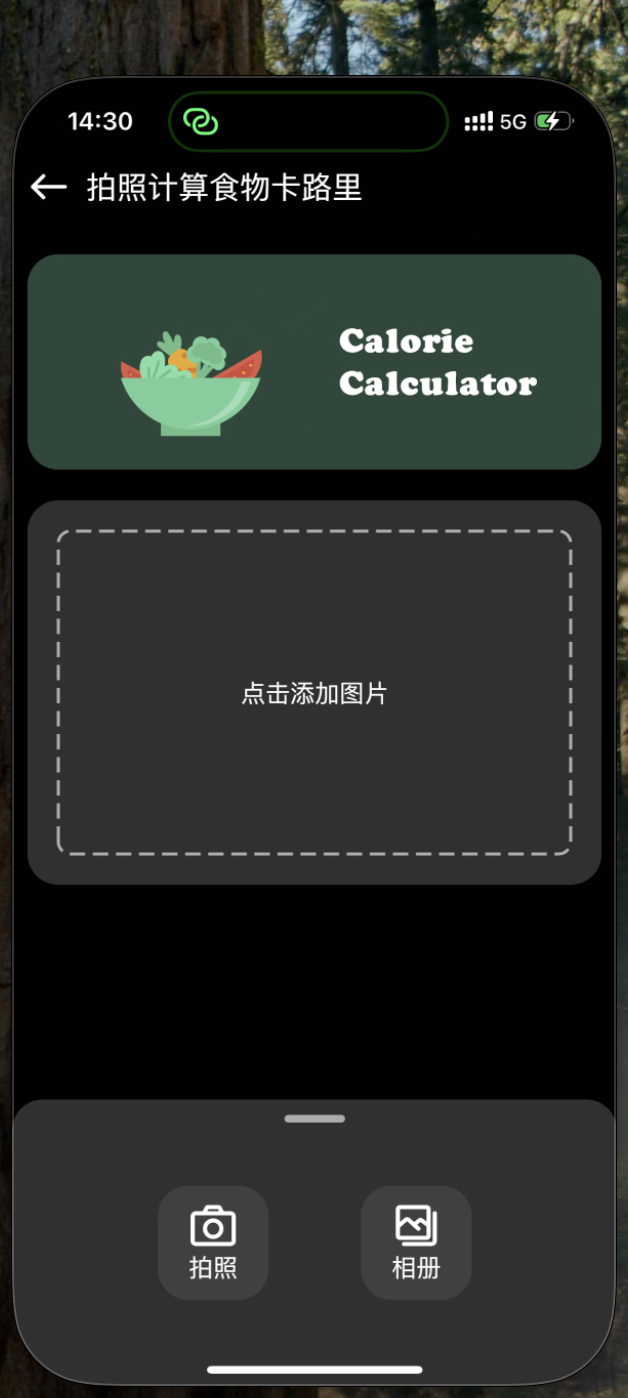
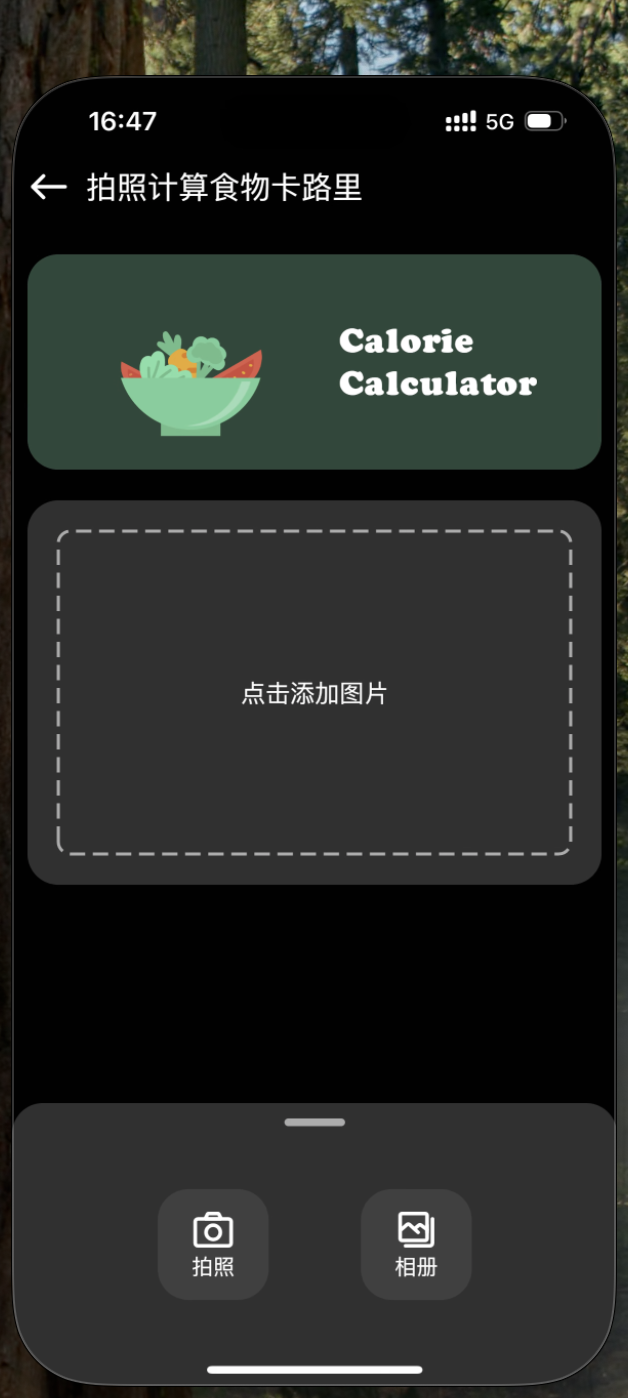
feat:更新拍照图库按钮样式

diff --git a/composeApp/src/commonMain/kotlin/com/stephen/aiassistant/ui/pages/CalorieCalculatePage.kt b/composeApp/src/commonMain/kotlin/com/stephen/aiassistant/ui/pages/CalorieCalculatePage.kt
@@ -68,6 +68,7 @@ import com.stephen.aiassistant.ui.component.DashedRoundedRectangle
 import com.stephen.aiassistant.ui.component.rememberToastState
 import com.stephen.aiassistant.ui.theme.CooperFontFamily
 import com.stephen.aiassistant.ui.theme.darkCalorieCardBgColor
+import com.stephen.aiassistant.ui.theme.infoText
 import com.stephen.aiassistant.ui.theme.lightCalorieCardBgColor
 import com.stephen.aiassistant.ui.theme.titleSecondText
 import com.stephen.aiassistant.vm.MainViewModel
@@ -267,7 +268,9 @@ fun SharedTransitionScope.CalorieCalculatePage(
                         contentScale = ContentScale.Crop,
                     )
                     if (foodListState.value.loading) {
-                        BlueAreaScanEffect(modifier = Modifier.fillMaxWidth(1f).clip(RoundedCornerShape(20.dp)))
+                        BlueAreaScanEffect(
+                            modifier = Modifier.fillMaxWidth(1f).clip(RoundedCornerShape(20.dp))
+                        )
                     }
                     // 叉号，清空重选
                     Image(
@@ -573,37 +576,40 @@ fun CameraGallerySelectView(
             ) {
                 Column(
                     modifier = Modifier.padding(end = 60.dp)
+                        .size(72.dp)
                         .clip(RoundedCornerShape(20.dp))
                         .background(MaterialTheme.colorScheme.onSurface)
                         .clickable {
                             onCameraClick()
-                        }
-                        .padding(vertical = 10.dp, horizontal = 20.dp),
-                    horizontalAlignment = Alignment.CenterHorizontally
+                        },
+                    horizontalAlignment = Alignment.CenterHorizontally,
+                    verticalArrangement = Arrangement.Center
                 ) {
                     Image(
                         painter = painterResource(Res.drawable.ic_camera),
                         colorFilter = ColorFilter.tint(MaterialTheme.colorScheme.onPrimary),
-                        modifier = Modifier.size(32.dp),
+                        modifier = Modifier.size(28.dp),
                         contentDescription = "camera"
                     )
-                    CenterText(text = "拍照")
+                    CenterText(text = "拍照", style = infoText)
                 }
                 Column(
-                    horizontalAlignment = Alignment.CenterHorizontally,
-                    modifier = Modifier.clip(RoundedCornerShape(20.dp))
+                    modifier = Modifier.size(72.dp)
+                        .clip(RoundedCornerShape(20.dp))
                         .background(MaterialTheme.colorScheme.onSurface)
                         .clickable {
                             onGalleryClick()
-                        }.padding(vertical = 10.dp, horizontal = 20.dp),
+                        },
+                    horizontalAlignment = Alignment.CenterHorizontally,
+                    verticalArrangement = Arrangement.Center
                 ) {
                     Image(
                         painter = painterResource(Res.drawable.ic_picture_album),
                         colorFilter = ColorFilter.tint(MaterialTheme.colorScheme.onPrimary),
-                        modifier = Modifier.size(32.dp),
+                        modifier = Modifier.size(28.dp),
                         contentDescription = "gallery"
                     )
-                    CenterText(text = "相册")
+                    CenterText(text = "相册", style = infoText)
                 }
             }
             Spacer(
